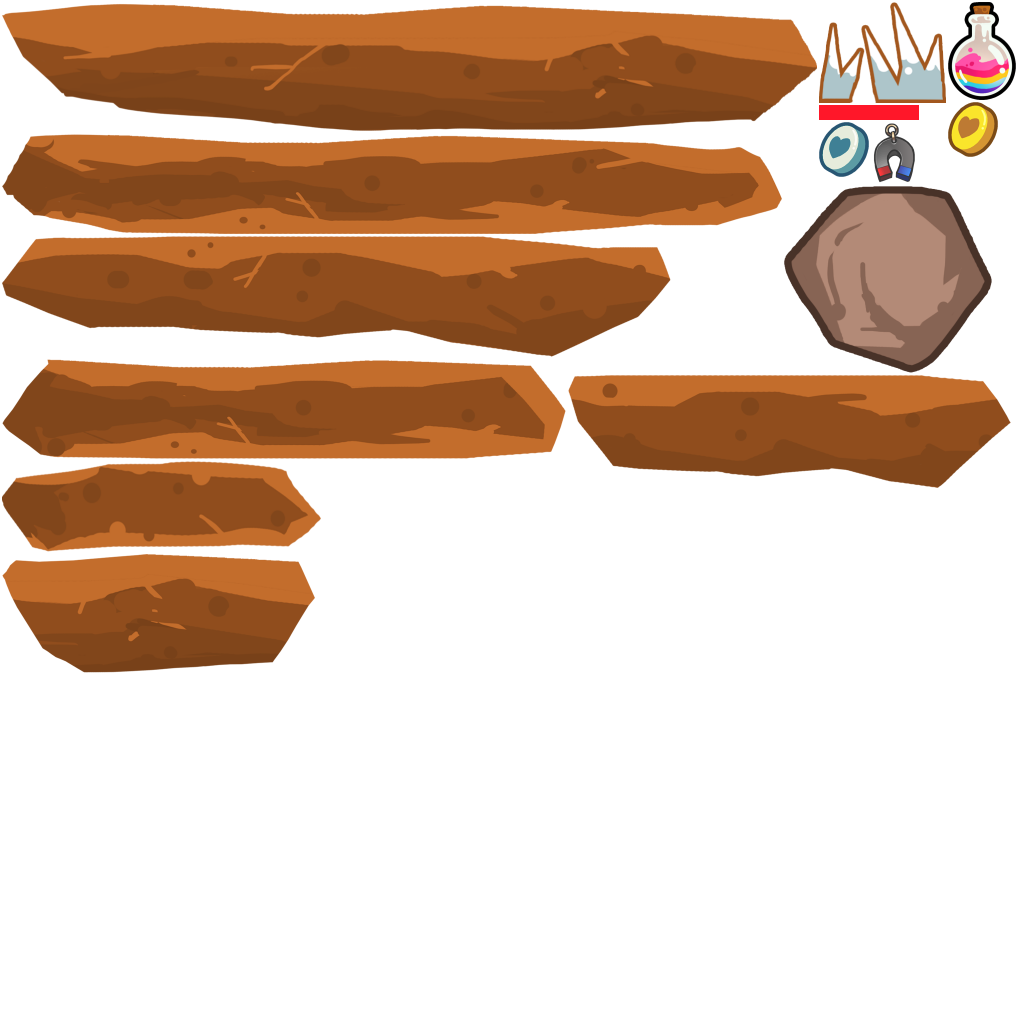
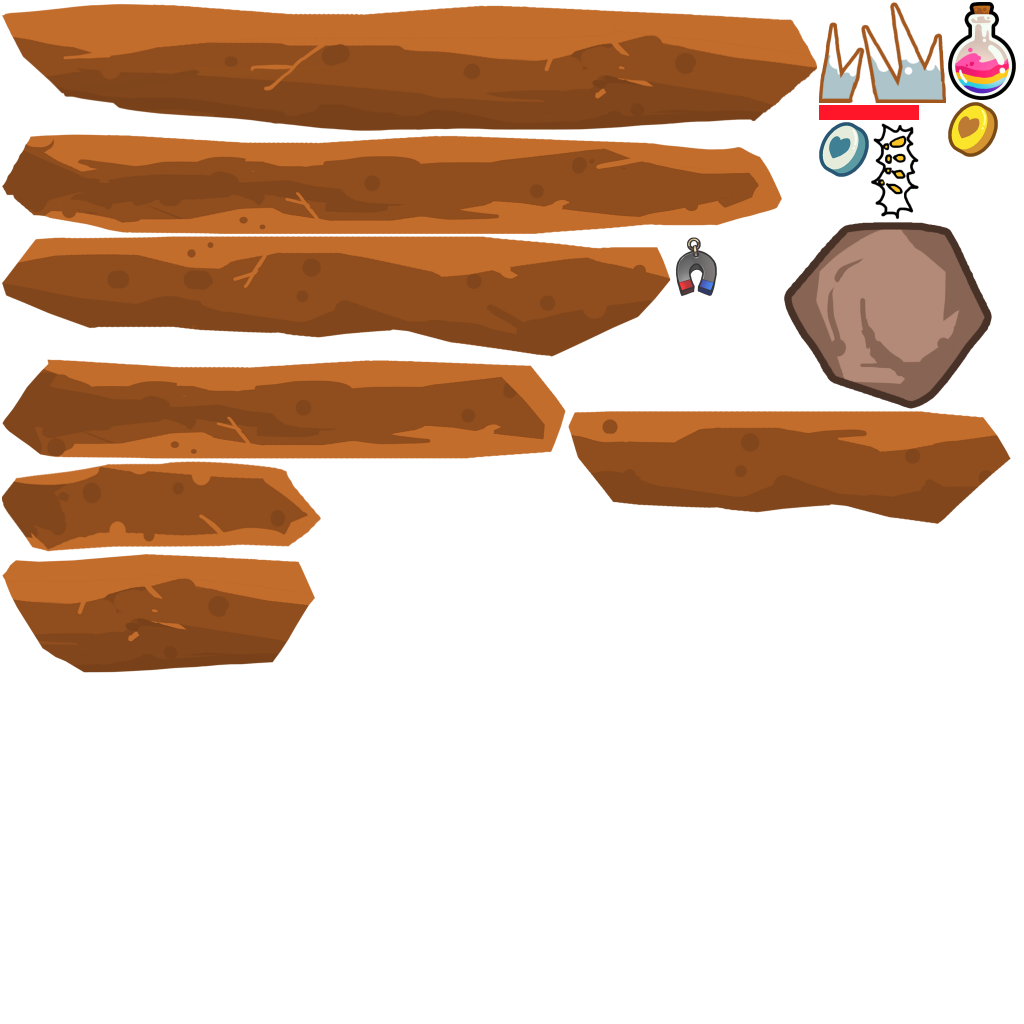
绝妙效果 完成

Changed region(s): [[0.5312, 0.125, 1.0, 0.5312], [0.6562, 0.2188, 0.7188, 0.3125]]

diff --git a/LibSouSouSou/Hero.mm b/LibSouSouSou/Hero.mm
@@ -18,7 +18,7 @@
 #import "GameScene.h"
 #include "Box2D.h"
 #import "PhysicRibbon.h"
-
+#import "ExcellentText.h"
 const float invalid_distance = -10000;
 const float hover_distance = 100;
 @implementation Hero
@@ -449,6 +449,12 @@ switch (  [self get_track ] )
     else if ( [self is_excelent_sensor:myself] && [other isKindOfClass:[PlatformBase class]] && [(PlatformBase*)other kill_touched] )
     {
         //绝妙
+        ExcellentText* txt;
+        txt = [ExcellentText new];
+        [txt init_with_xml:@"sprites/base.xml:excellent"];
+        
+        [txt set_position:m_previous_pos.x y:m_previous_pos.y];
+        [[GameBase get_game].m_world add_gameobj:txt];
         PlatformBase* p = (PlatformBase*)other;
         if ( ![p get_excellented] )
         {
@@ -589,6 +595,7 @@ switch (  [self get_track ] )
 -(void) update:(float)delta_time
 {
     [ super update:delta_time];
+    m_previous_pos = [ self get_physic_position:0];
     float old_scale = m_hero_scale;
     m_hero_scale.update(delta_time);
     if ( old_scale != m_hero_scale )

diff --git a/LibSouSouSou/ExcellentText.mm b/LibSouSouSou/ExcellentText.mm
@@ -8,13 +8,15 @@
 
 #import "ExcellentText.h"
 #import "common.h"
+#import "GameSouSouSouLevel.h"
+#import "GameBase.h"
 @implementation ExcellentText
 
 - (id)init
 {
     self = [super init];
     if (self) {
-        m_spawned_time = 0;
+        m_spawned_time = current_game_time();
     }
     return self;
 }
@@ -23,7 +25,11 @@
     float curtime = current_game_time();
     float scale = powf( 1 - (curtime - m_spawned_time)*2 ,4)*2 + 1;
     [self set_scale:scale :scale  ];
-    if ( curtime - m_spawned_time > 1 )
+    if ( curtime - m_spawned_time > 0.5 )
        [ self remove_from_game:true];
+    GameSouSouSouLevel* lvl = (GameSouSouSouLevel*)[GameBase get_game].m_level;
+    float level_speed = [lvl get_move_speed];
+    [self set_position:self.m_position.x - level_speed * delta_time    y:self.m_position.y];
+    
 }
 @end

diff --git a/LibSouSouSou/Hero.h b/LibSouSouSou/Hero.h
@@ -149,6 +149,7 @@ struct boostable_value
     morph_value<float,true>         m_hero_scale;
     score                           m_score;
     b2Body*                         m_bound[2];
+    CGPoint                         m_previous_pos;
 }
 
 -(track) get_track;
